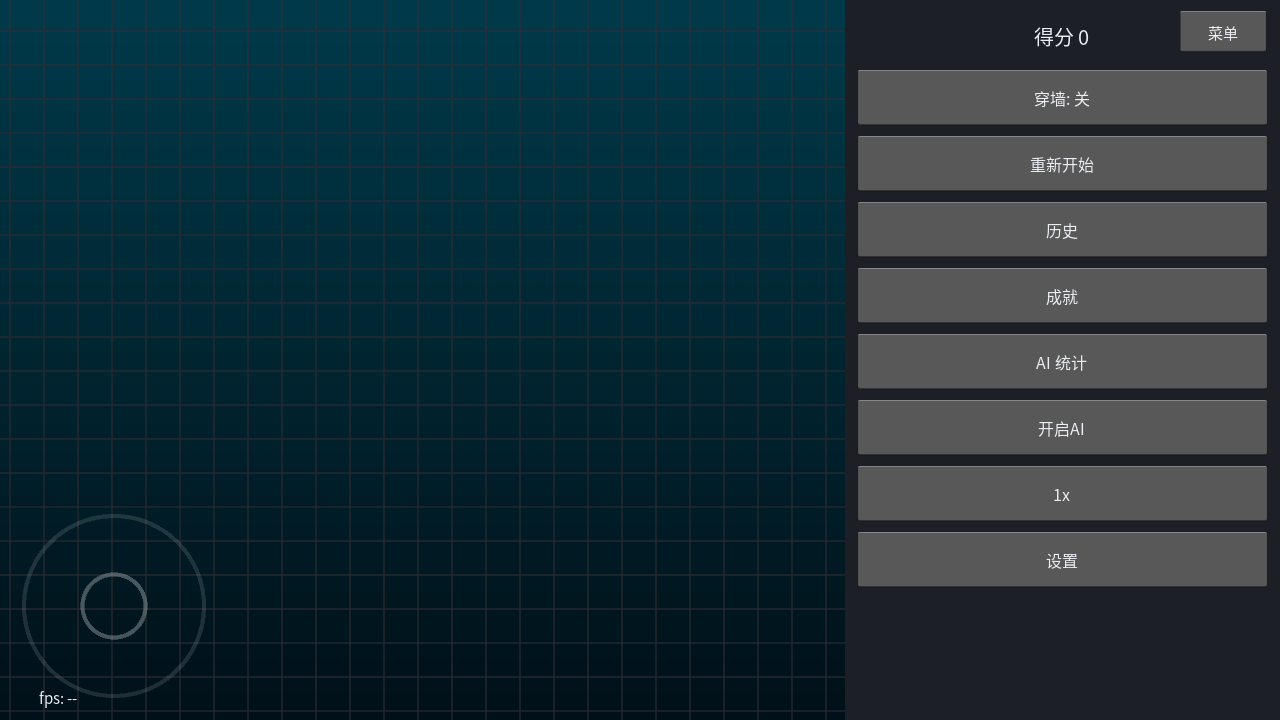
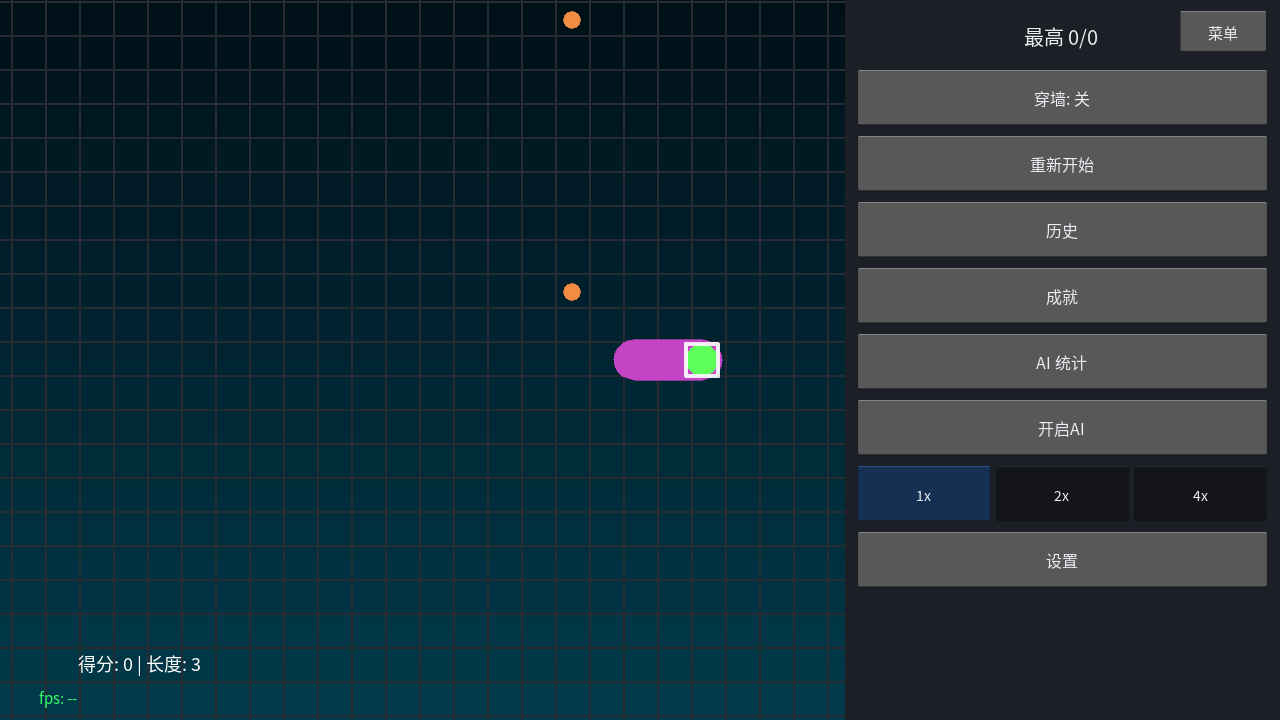
Fix speed button crash, cap speeds at 4x, remove path reuse: 2x/4x 900 ticks score 95 running

diff --git a/src/view/panel.py b/src/view/panel.py
@@ -78,7 +78,7 @@ class Panel(ThemedMixin, BoxLayout):
         self.btn_ai.bind(on_release=lambda *_: self._ai())
         self.speed_row = BoxLayout(size_hint_y=None, height=56, spacing=4)
         self.speed_buttons = {}
-        for _v in (1.0, 2.0, 4.0, 8.0, 16.0):
+        for _v in (1.0, 2.0, 4.0):
             b = Button(text=f"{_v:g}x", font_name=FONT_NAME, font_size=14.0)
             b.bind(on_release=lambda _w, v=_v: self._set_speed(v))
             self.speed_row.add_widget(b)
@@ -141,6 +141,12 @@ class Panel(ThemedMixin, BoxLayout):
     def _speed(self) -> None:
         if self._on_speed is not None:
             self._on_speed()
+        self.refresh()
+
+    def _set_speed(self, value: float) -> None:
+        self._tap()
+        if self._on_speed is not None:
+            self._on_speed(value)
         self.refresh()
 
     def _stats(self) -> None:

diff --git a/src/ai/session.py b/src/ai/session.py
@@ -104,19 +104,7 @@ class AISession:
         self._cheap_ticks = 0
         self._follow_cheap = False
 
-        # 路径复用：上一条路径仍可走就继续走，不重算
         reuse_dir = None
-        while self._plan and self._plan[0] == snake.head:
-            self._plan.pop(0)
-        if self._plan:
-            step = self._plan[0]
-            d = (step[0] - snake.head[0], step[1] - snake.head[1])
-            if (abs(d[0]) + abs(d[1]) == 1
-                    and world.has_food(self._plan[-1])
-                    and self.controller.safe_step(world, snake, d, wrap_mode)):
-                reuse_dir = d
-                self._plan.pop(0)
-                self.stats["path_reuse"] = self.stats.get("path_reuse", 0) + 1
 
         # 高速档：每 2 tick 决策一次；其余每 tick
         if self.ticks % self.period == 0:

diff --git a/src/app/app.py b/src/app/app.py
@@ -493,6 +493,7 @@ class SnakeApp(App):
 
     def _cycle_speed(self, value: float | None = None) -> None:
         self.speed = float(value) if value is not None else self.speed
+        speed = min(speed, 4.0)
         self.game.clock.set_speed(self.speed)
         self._apply_chunk_throughput()
         self.panel.speed = self.speed
